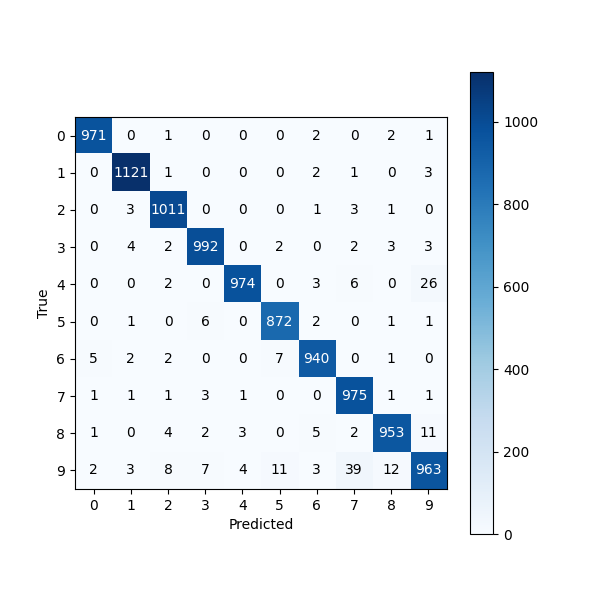
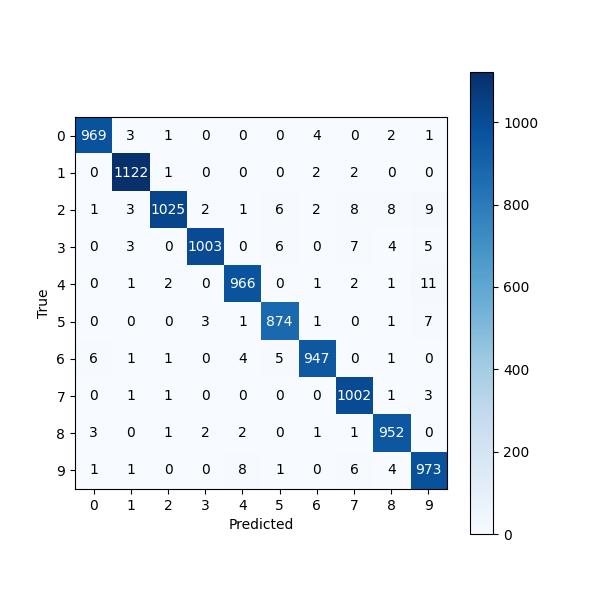
FUlly trained the network obtained %98+ validation accuracy. Visualized again using fully trained model.

diff --git a/train.py b/train.py
@@ -14,7 +14,7 @@ from utils.visualization import plot_training_curves
 LEARNING_RATE = 0.001
 BATCH_SIZE = 64
 NUM_EPOCHS = 20
-CHECKPOINT_PATH = "checkpoints/best_model.npy"
+CHECKPOINT_PATH = "checkpoints/fully_trained_best_model.npy"
 
 # Define a function for evaluation
 def evaluate(model, images, labels, batch_size):

diff --git a/inference.py b/inference.py
@@ -13,7 +13,7 @@ from data.load_mnist import load_mnist
 LEARNING_RATE = 0.001
 BATCH_SIZE = 64
 NUM_EPOCHS = 20
-CHECKPOINT_PATH = "checkpoints/best_model.npy"
+CHECKPOINT_PATH = "checkpoints/fully_trained_best_model.npy"
 
 
 def predict_single(model, image):

diff --git a/evaluate.py b/evaluate.py
@@ -15,7 +15,7 @@ from train import evaluate
 LEARNING_RATE = 0.001
 BATCH_SIZE = 64
 NUM_EPOCHS = 20
-CHECKPOINT_PATH = "checkpoints/best_model.npy"
+CHECKPOINT_PATH = "checkpoints/fully_trained_best_model.npy"
 
 
 def main():
